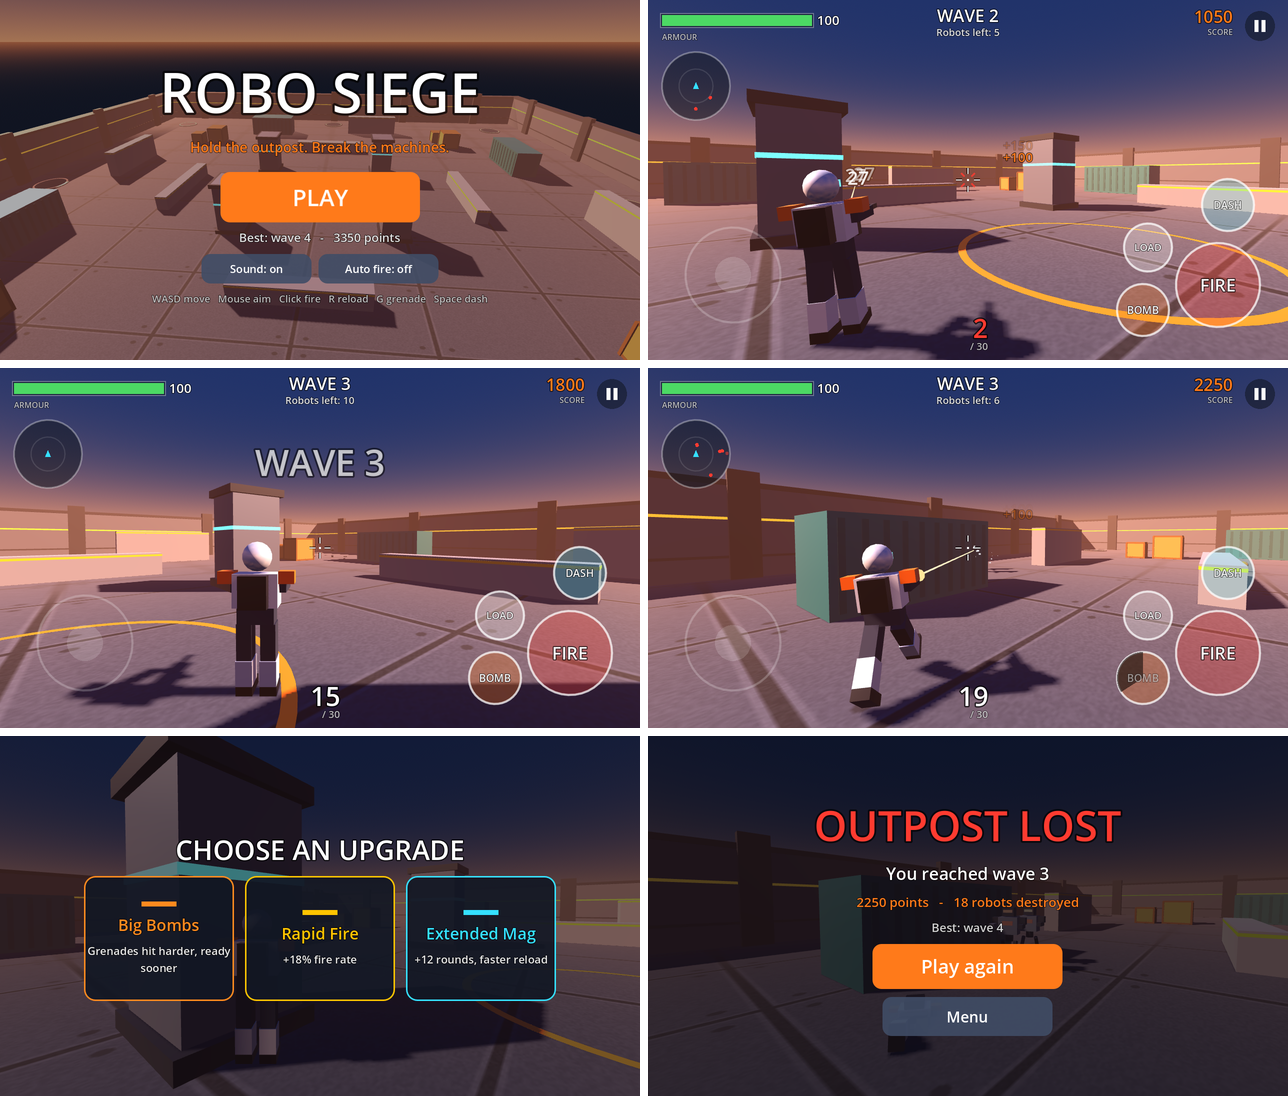
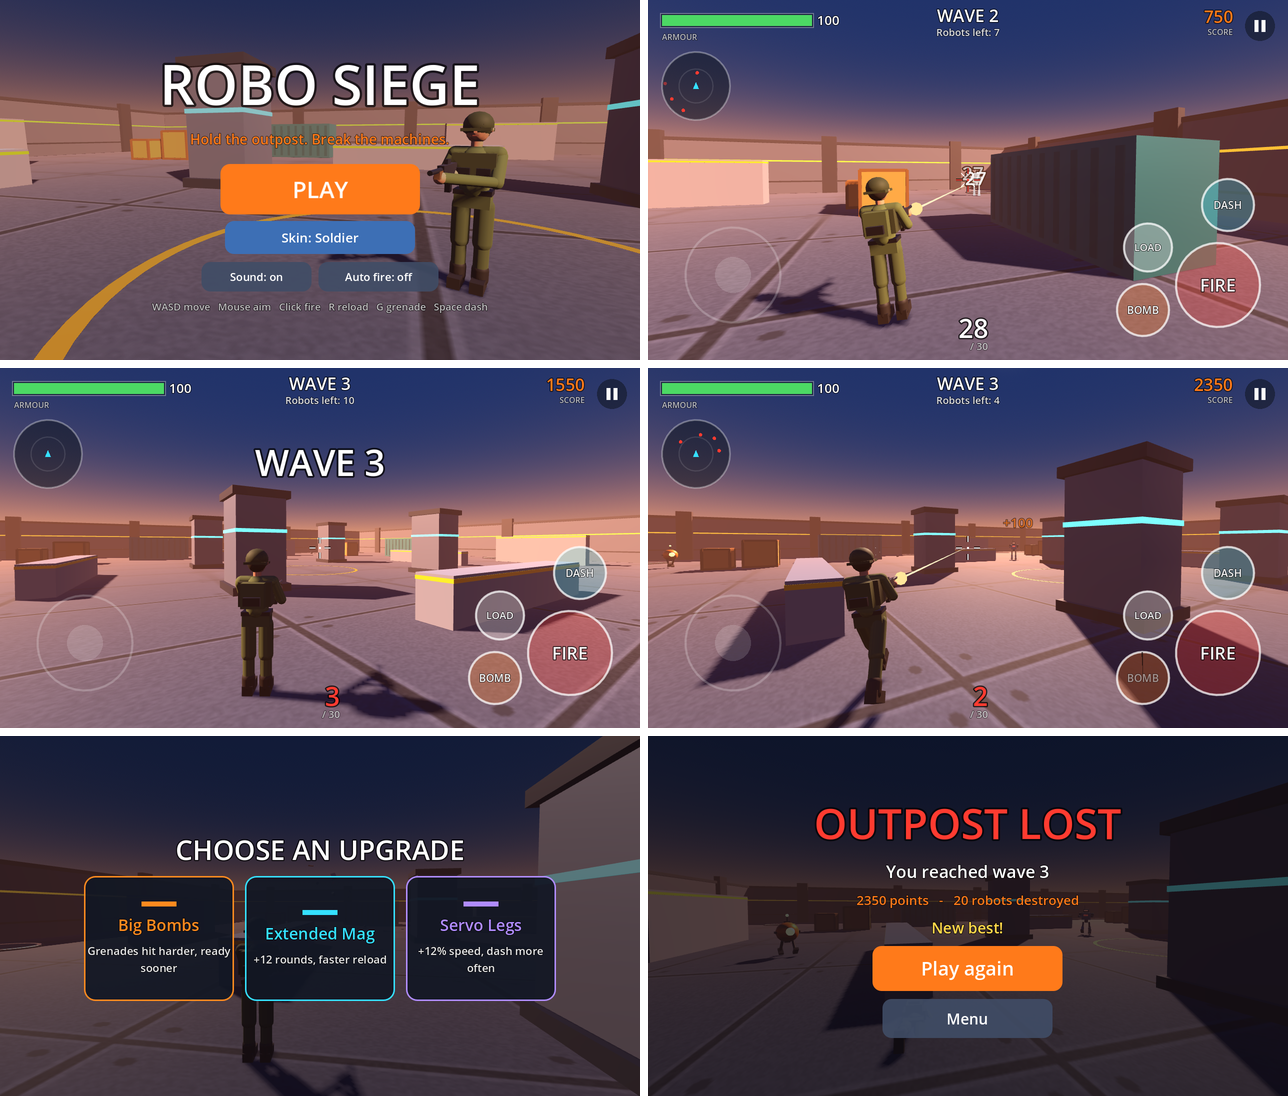
Make the Robo Siege trooper a person, with four skins
The player was a boxy armoured figure that read as another robot. It is
now a human built from rounded limbs: face, hair or headgear, hands on
the rifle, uniform, vest, boots and a pack.

- Rig.LOOKS lists four outfits (Soldier, Commando, Desert, Street) with
  their own skin tone, hair, clothes and headgear
- The menu shows the chosen trooper beside the buttons and has a Skin
  button to cycle through them; the choice is saved
- New screenshots, clip and a picture of the skins

Claude-Session: https://claude.ai/code/session_01U3zDcAnATwWitWEYXQZVfg

diff --git a/robo-siege/README.md b/robo-siege/README.md
@@ -6,8 +6,11 @@ A third-person shooter. You are a trooper holding an outpost against waves of ro
 
 ![Screenshots](media/screenshots.png)
 
+![Skins](media/skins.png)
+
 ## Features
 
+- Four skins for your trooper, chosen in the menu: Soldier, Commando, Desert and Street
 - Over-the-shoulder camera that pulls in when a wall is behind you
 - Four kinds of robot:
   - **Grunt** walks into range, sidesteps and fires single bolts
@@ -56,7 +59,7 @@ In Godot: *Editor → Manage Export Templates → Download*, then *Project → E
 | `player.gd` | The trooper: moving, the camera, shooting, grenades, dash |
 | `enemy.gd` | The robots and how each kind behaves |
 | `arena.gd` | The outpost, its lighting, and the grid robots use to find their way |
-| `rig.gd` | Characters built from simple shapes, with a walk cycle made in code |
+| `rig.gd` | Characters built from simple shapes, with a walk cycle made in code; the skins are the `LOOKS` list |
 | `fx.gd` | Tracers, sparks, explosions, damage numbers, bolts and grenades |
 | `hud.gd` | Touch and keyboard controls, and everything drawn over the game |
 | `sfx.gd` | Sound effects made in code |
